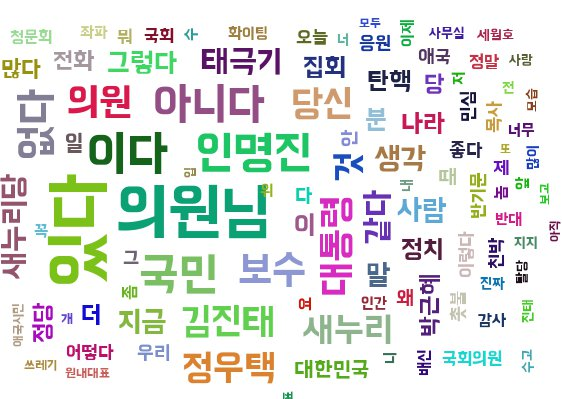
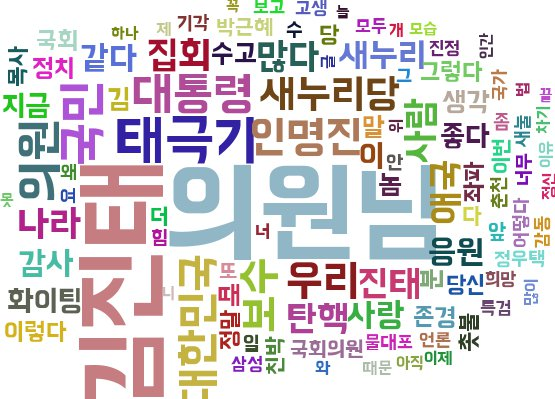
오타 수정 및 워드클라우드 크기 범위 수정

diff --git a/server/app/run.py b/server/app/run.py
@@ -10,7 +10,7 @@ app = Flask(__name__)
 ***REMOVED***
 
 # 정치인 리스트 및 딕셔너리
-politician_dic={"김부겸":"hopekbk", "김성식":"okkimss", "김진표":"jinpyo_kim",
+politician_dic={"김부겸":"hopekbk", "김성식":"okkimss", "김진표":"jinpyokim",
           "문재인":"moonriver365", "민병두":"bdmin1958", "박범계":"bkfire1004",
           "박영선":"Park_Youngsun", "박원순":"wonsoonpark", "박지원":"jwp615",
           "송영길":"Bulloger", "안철수":"cheolsoo0919", "안희정":"steelroot",
@@ -56,7 +56,7 @@ def main():
     left_word = get_frequent_words(make_Screen_Name_list(left_select), ["left_frequency", "left_reply_frequency"])
     avg = np.mean(list(zip(*left_word))[1])
     taglist = pytagcloud.make_tags(left_word[:100],
-                                   maxsize=12 * (left_word[0][1] - avg) / (avg - left_word[99][1]))
+                                   maxsize=20 * (left_word[0][1] - (avg)+1) / (avg))
     pytagcloud.create_tag_image(taglist, './static/img/wordcloud_left.jpg', size=(600, 400),
                                 fontname='BMHANNA_11yrs_ttf', rectangular=False)
     print("Left done!")
@@ -65,7 +65,7 @@ def main():
     right_word = get_frequent_words(make_Screen_Name_list(right_select), ["right_frequency", "right_reply_frequency"])
     avg = np.mean(list(zip(*right_word))[1])
     taglist = pytagcloud.make_tags(right_word[:100],
-                                   maxsize=12 * (right_word[0][1] - avg) / (avg - right_word[99][1]))
+                                   maxsize=20 * (right_word[0][1] - (avg)+1) / (avg))
     pytagcloud.create_tag_image(taglist, './static/img/wordcloud_right.jpg', size=(600, 400),
                                 fontname='BMHANNA_11yrs_ttf', rectangular=False)
     print("Right done!")
@@ -83,7 +83,7 @@ def tweet():
     left_word = get_frequent_words(make_Screen_Name_list(left_select), ["left_frequency"])
     avg = np.mean(list(zip(*left_word))[1])
     taglist = pytagcloud.make_tags(left_word[:100],
-                                   maxsize=12 * (left_word[0][1] - avg) / (avg - left_word[99][1]))
+                                   maxsize=20 * (left_word[0][1] - (avg)+1) / (avg))
     pytagcloud.create_tag_image(taglist, './static/img/wordcloud_left.jpg', size=(600, 400),
                                 fontname='BMHANNA_11yrs_ttf', rectangular=False)
     print("Left done!")
@@ -92,7 +92,7 @@ def tweet():
     right_word = get_frequent_words(make_Screen_Name_list(right_select), ["right_frequency"])
     avg = np.mean(list(zip(*right_word))[1])
     taglist = pytagcloud.make_tags(right_word[:100],
-                                   maxsize=12 * (right_word[0][1] - avg) / (avg - right_word[99][1]))
+                                   maxsize=20 * (right_word[0][1] - (avg)+1) / (avg))
     pytagcloud.create_tag_image(taglist, './static/img/wordcloud_right.jpg', size=(600, 400),
                                 fontname='BMHANNA_11yrs_ttf', rectangular=False)
     print("Right done!")
@@ -110,7 +110,7 @@ def reply():
     left_word = get_frequent_words(make_Screen_Name_list(left_select), ["left_reply_frequency"])
     avg = np.mean(list(zip(*left_word))[1])
     taglist = pytagcloud.make_tags(left_word[:100],
-                                   maxsize=12 * (left_word[0][1] - avg) / (avg - left_word[99][1]))
+                                   maxsize=20 * (left_word[0][1] - (avg)+1) / (avg))
     pytagcloud.create_tag_image(taglist, './static/img/wordcloud_left.jpg', size=(600, 400),
                                 fontname='BMHANNA_11yrs_ttf', rectangular=False)
     print("Left done!")
@@ -119,7 +119,7 @@ def reply():
     right_word = get_frequent_words(make_Screen_Name_list(right_select), ["right_reply_frequency"])
     avg = np.mean(list(zip(*right_word))[1])
     taglist = pytagcloud.make_tags(right_word[:100],
-                                   maxsize=12 * (right_word[0][1] - avg) / (avg - right_word[99][1]))
+                                   maxsize=20 * (right_word[0][1] - (avg)+1) / (avg))
     pytagcloud.create_tag_image(taglist, './static/img/wordcloud_right.jpg', size=(600, 400),
                                 fontname='BMHANNA_11yrs_ttf', rectangular=False)
     print("Right done!")
@@ -139,6 +139,6 @@ def check_box():
         right_select = request.json["right"]
     return str(request.json);
 
-# 실행행
-if __nme__ == '__main__':
+# 실행
+if __name__ == '__main__':
     app.run()
